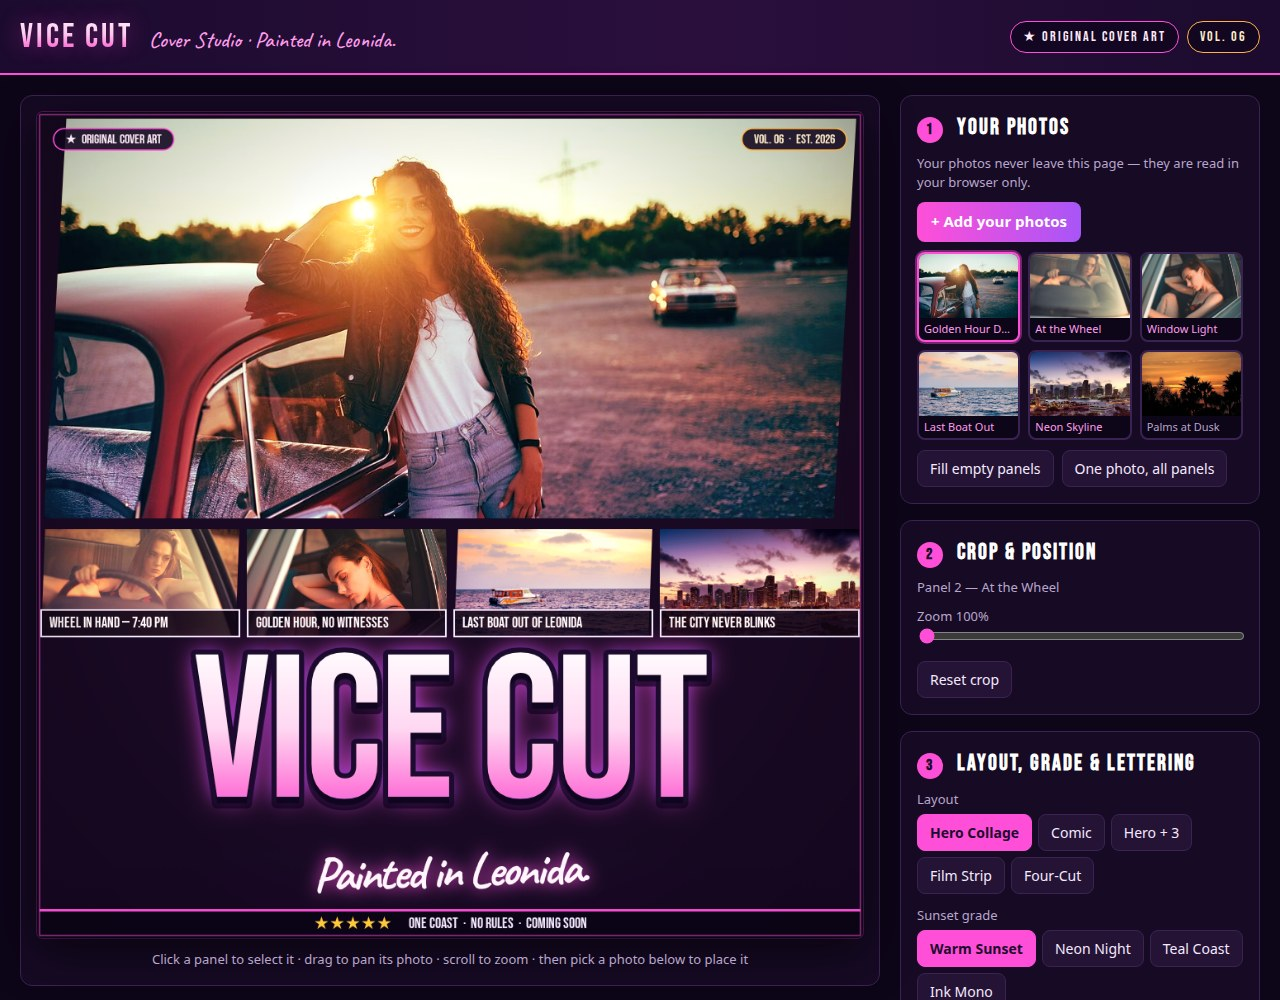
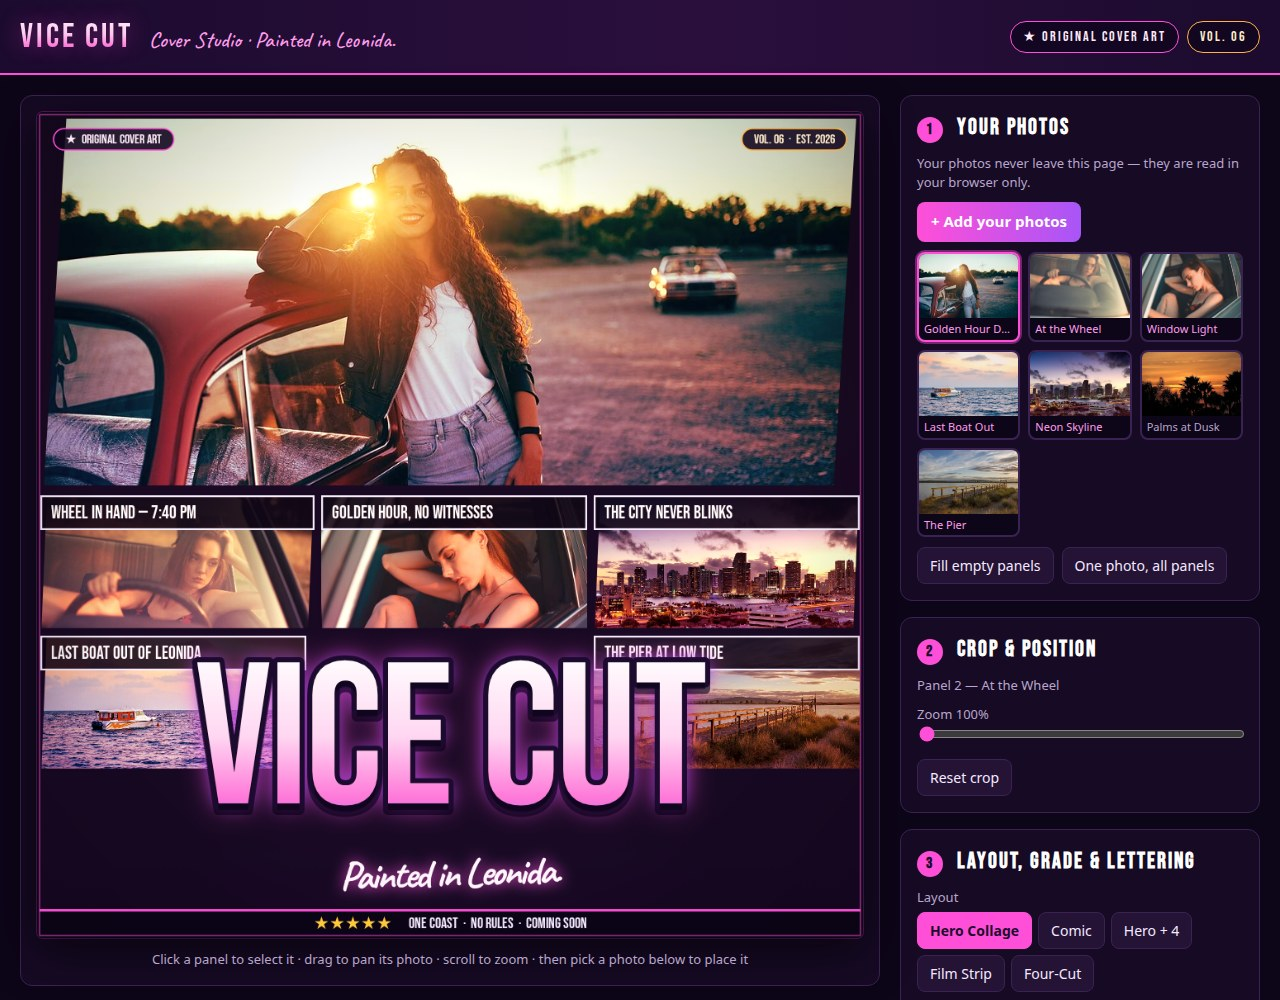
VICE CUT v3: dense poster grid — title overlaps the panels, 7th photo (pier), top captions

diff --git a/app/src/cover.js b/app/src/cover.js
@@ -49,57 +49,66 @@ export const CAPTION_STYLES = {
 
 // Layouts: panels in fractions of the cover (x, y, w, h, slant). Slot 0 is always
 // the hero — the big face-led photo. The rest are the small comic panels. Panels
-// end at 0.64 of the height: the giant title + tagline own the bottom strip, so
-// layouts never put a face or a caption under the title.
+// fill the cover down to 0.80 of the height, and the giant title OVERLAPS the
+// photo grid the way GTA posters do — never in its own empty band, and never
+// over a face (faces live in the hero and the top row; the bottom row is scenes).
+// Captions sit at the TOP of each small panel, so the title overlapping the
+// panel bottoms can never hide one.
 export const LAYOUTS = {
   hero: {
     label: 'Hero Collage',
     panels: [
-      { x: 0, y: 0, w: 1, h: 0.5, slant: 0.028 },
-      { x: 0, y: 0.5, w: 0.25, h: 0.14, slant: 0.02 },
-      { x: 0.25, y: 0.5, w: 0.25, h: 0.14, slant: -0.02 },
-      { x: 0.5, y: 0.5, w: 0.25, h: 0.14, slant: 0.02 },
-      { x: 0.75, y: 0.5, w: 0.25, h: 0.14, slant: -0.02 },
+      { x: 0, y: 0, w: 1, h: 0.46, slant: 0.028, photo: 'hero', caption: '' },
+      { x: 0, y: 0.46, w: 0.34, h: 0.17, slant: 0.02, photo: 'driver', caption: 'WHEEL IN HAND — 7:40 PM' },
+      { x: 0.34, y: 0.46, w: 0.33, h: 0.17, slant: -0.02, photo: 'window', caption: 'GOLDEN HOUR, NO WITNESSES' },
+      { x: 0.67, y: 0.46, w: 0.33, h: 0.17, slant: 0.02, photo: 'miami', caption: 'THE CITY NEVER BLINKS' },
+      // Bottom row: two side panels only. The centre is the title's ground —
+      // a panel there would sit dead-centre under the densest title glyphs
+      // and vanish, caption and all.
+      { x: 0, y: 0.63, w: 0.33, h: 0.17, slant: 0.02, photo: 'boat', caption: 'LAST BOAT OUT OF LEONIDA' },
+      { x: 0.67, y: 0.63, w: 0.33, h: 0.17, slant: -0.02, photo: 'pier', caption: 'THE PIER AT LOW TIDE' },
     ],
   },
   comic: {
     label: 'Comic',
     panels: [
-      { x: 0, y: 0, w: 0.6, h: 0.44, slant: 0.02 },
-      { x: 0.6, y: 0, w: 0.4, h: 0.44, slant: -0.02 },
-      { x: 0, y: 0.44, w: 0.34, h: 0.2, slant: 0.02 },
-      { x: 0.34, y: 0.44, w: 0.33, h: 0.2, slant: -0.02 },
-      { x: 0.67, y: 0.44, w: 0.33, h: 0.2, slant: 0.02 },
+      { x: 0, y: 0, w: 0.6, h: 0.52, slant: 0.02, photo: 'hero', caption: '' },
+      { x: 0.6, y: 0, w: 0.4, h: 0.26, slant: -0.02, photo: 'driver', caption: 'WHEEL IN HAND — 7:40 PM' },
+      { x: 0.6, y: 0.26, w: 0.4, h: 0.26, slant: -0.02, photo: 'window', caption: 'GOLDEN HOUR, NO WITNESSES' },
+      { x: 0, y: 0.52, w: 0.34, h: 0.28, slant: 0.02, photo: 'miami', caption: 'THE CITY NEVER BLINKS' },
+      { x: 0.34, y: 0.52, w: 0.33, h: 0.28, slant: -0.02, photo: 'boat', caption: 'LAST BOAT OUT OF LEONIDA' },
+      { x: 0.67, y: 0.52, w: 0.33, h: 0.28, slant: 0.02, photo: 'palms', caption: 'PALMS AT DUSK' },
     ],
   },
   hero3: {
-    label: 'Hero + 3',
+    label: 'Hero + 4',
     panels: [
-      { x: 0, y: 0, w: 1, h: 0.5, slant: 0.024 },
-      { x: 0, y: 0.5, w: 0.34, h: 0.14, slant: 0.02 },
-      { x: 0.34, y: 0.5, w: 0.33, h: 0.14, slant: -0.02 },
-      { x: 0.67, y: 0.5, w: 0.33, h: 0.14, slant: 0.02 },
+      { x: 0, y: 0, w: 1, h: 0.5, slant: 0.024, photo: 'hero', caption: '' },
+      { x: 0, y: 0.5, w: 0.5, h: 0.15, slant: 0.02, photo: 'driver', caption: 'WHEEL IN HAND — 7:40 PM' },
+      { x: 0.5, y: 0.5, w: 0.5, h: 0.15, slant: -0.02, photo: 'window', caption: 'GOLDEN HOUR, NO WITNESSES' },
+      { x: 0, y: 0.65, w: 0.5, h: 0.15, slant: 0.02, photo: 'miami', caption: 'THE CITY NEVER BLINKS' },
+      { x: 0.5, y: 0.65, w: 0.5, h: 0.15, slant: -0.02, photo: 'boat', caption: 'LAST BOAT OUT OF LEONIDA' },
     ],
   },
   strip: {
     label: 'Film Strip',
     panels: [
-      { x: 0, y: 0, w: 1, h: 0.44, slant: 0.024 },
-      { x: 0, y: 0.44, w: 0.2, h: 0.2, slant: 0 },
-      { x: 0.2, y: 0.44, w: 0.2, h: 0.2, slant: 0 },
-      { x: 0.4, y: 0.44, w: 0.2, h: 0.2, slant: 0 },
-      { x: 0.6, y: 0.44, w: 0.2, h: 0.2, slant: 0 },
-      { x: 0.8, y: 0.44, w: 0.2, h: 0.2, slant: 0 },
+      { x: 0, y: 0, w: 1, h: 0.5, slant: 0.024, photo: 'hero', caption: '' },
+      { x: 0, y: 0.5, w: 0.2, h: 0.3, slant: 0, photo: 'driver', caption: 'WHEEL IN HAND — 7:40 PM' },
+      { x: 0.2, y: 0.5, w: 0.2, h: 0.3, slant: 0, photo: 'window', caption: 'GOLDEN HOUR, NO WITNESSES' },
+      { x: 0.4, y: 0.5, w: 0.2, h: 0.3, slant: 0, photo: 'miami', caption: 'THE CITY NEVER BLINKS' },
+      { x: 0.6, y: 0.5, w: 0.2, h: 0.3, slant: 0, photo: 'boat', caption: 'LAST BOAT OUT OF LEONIDA' },
+      { x: 0.8, y: 0.5, w: 0.2, h: 0.3, slant: 0, photo: 'palms', caption: 'PALMS AT DUSK' },
     ],
   },
   fourcut: {
     label: 'Four-Cut',
     panels: [
-      { x: 0, y: 0, w: 0.66, h: 0.46, slant: 0.02 },
-      { x: 0.66, y: 0, w: 0.34, h: 0.46, slant: -0.02 },
-      { x: 0, y: 0.46, w: 0.34, h: 0.18, slant: 0.02 },
-      { x: 0.34, y: 0.46, w: 0.33, h: 0.18, slant: -0.02 },
-      { x: 0.67, y: 0.46, w: 0.33, h: 0.18, slant: 0.02 },
+      { x: 0, y: 0, w: 0.66, h: 0.52, slant: 0.02, photo: 'hero', caption: '' },
+      { x: 0.66, y: 0, w: 0.34, h: 0.52, slant: -0.02, photo: 'driver', caption: 'WHEEL IN HAND — 7:40 PM' },
+      { x: 0, y: 0.52, w: 0.34, h: 0.28, slant: 0.02, photo: 'window', caption: 'GOLDEN HOUR, NO WITNESSES' },
+      { x: 0.34, y: 0.52, w: 0.33, h: 0.28, slant: -0.02, photo: 'miami', caption: 'THE CITY NEVER BLINKS' },
+      { x: 0.67, y: 0.52, w: 0.33, h: 0.28, slant: 0.02, photo: 'boat', caption: 'LAST BOAT OUT OF LEONIDA' },
     ],
   },
 };
@@ -108,9 +117,10 @@ export const DEFAULT_CAPTIONS = [
   '',
   'WHEEL IN HAND — 7:40 PM',
   'GOLDEN HOUR, NO WITNESSES',
-  'LAST BOAT OUT OF LEONIDA',
   'THE CITY NEVER BLINKS',
+  'LAST BOAT OUT OF LEONIDA',
   'PALMS AT DUSK',
+  'THE PIER AT LOW TIDE',
 ];
 
 // Last painted panel rects in canvas pixels, for click hit-testing in the editor.
@@ -199,8 +209,10 @@ function drawPhotoPanel(ctx, img, r, grade, crop) {
 
 function drawCaptionBar(ctx, r, text, style, isHero) {
   if (!text) return;
+  // Caption box at the TOP of the panel: the giant title overlaps panel
+  // bottoms, so a bottom caption would hide under it.
   const barH = Math.max(20, r.h * 0.26);
-  const barY = r.y + r.h - barH;
+  const barY = r.y;
   const pad = barH * 0.32;
   ctx.save();
   ctx.beginPath();
@@ -229,32 +241,35 @@ function drawCaptionBar(ctx, r, text, style, isHero) {
 }
 
 function drawTitle(ctx, W, H, title, tagline) {
-  // The title owns the strip below the panels (panels end at 0.64H, the footer
-  // strip starts at 0.965H). Giant: fit to 94% of the width, never taller than
-  // 27% of the cover — and the fit loop also guarantees the tagline clears the
-  // footer, so the tagline can never be buried under it.
+  // The title OVERLAPS the photo grid like a GTA poster: panels fill the cover
+  // to 0.80H, and the title straddles that edge — its top over the bottom row
+  // of (faceless scene) panels, its bottom over the dark band below. Giant:
+  // fit to 94% of the width, never taller than 26% of the cover — and the fit
+  // loop also guarantees the tagline clears the footer, so it can never be
+  // buried under it.
   const footerTop = H * 0.965;
-  const titleTop = H * 0.64 + H * 0.004;
-  let size = H * 0.27;
+  let size = H * 0.26;
   const setFont = (s) => {
     ctx.font = `${s}px "Bebas Neue", sans-serif`;
     try { ctx.letterSpacing = `${-s * 0.012}px`; } catch { /* older canvas */ }
   };
   setFont(size);
+  const titleTop = () => H * 0.8 - size * 0.6;
   const fits = () => {
-    const tagSize = size * 0.22;
+    const tagSize = size * 0.2;
     return ctx.measureText(title).width <= W * 0.94
-      && titleTop + size + tagSize * 1.3 <= footerTop - 2;
+      && titleTop() + size + tagSize * 1.3 <= footerTop - 2;
   };
   while (size > 40 && !fits()) {
     size -= 4;
     setFont(size);
   }
   const titleH = size;
+  const top = titleTop();
   const cx = W / 2;
   ctx.textAlign = 'center';
   ctx.textBaseline = 'top';
-  const grad = ctx.createLinearGradient(0, titleTop, 0, titleTop + titleH);
+  const grad = ctx.createLinearGradient(0, top, 0, top + titleH);
   grad.addColorStop(0, '#ffffff');
   grad.addColorStop(0.42, '#ffd7f2');
   grad.addColorStop(0.72, '#ff7ad9');
@@ -264,10 +279,10 @@ function drawTitle(ctx, W, H, title, tagline) {
   ctx.shadowColor = '#ff4fd8';
   ctx.shadowBlur = size * 0.14;
   ctx.fillStyle = grad;
-  ctx.fillText(title, cx, titleTop);
+  ctx.fillText(title, cx, top);
   ctx.shadowColor = '#7c3aed';
   ctx.shadowBlur = size * 0.07;
-  ctx.fillText(title, cx, titleTop);
+  ctx.fillText(title, cx, top);
   ctx.restore();
   // Crisp pass: thick dark outline, gradient fill, hard drop shadow.
   ctx.save();
@@ -277,14 +292,14 @@ function drawTitle(ctx, W, H, title, tagline) {
   ctx.lineJoin = 'round';
   ctx.lineWidth = Math.max(4, size * 0.05);
   ctx.strokeStyle = '#1c0b2e';
-  ctx.strokeText(title, cx, titleTop);
+  ctx.strokeText(title, cx, top);
   ctx.fillStyle = grad;
-  ctx.fillText(title, cx, titleTop);
+  ctx.fillText(title, cx, top);
   ctx.restore();
   // Tagline in script, tucked tight under the title, never overlapping it.
-  const tagSize = Math.max(20, size * 0.24);
+  const tagSize = Math.max(20, size * 0.2);
   ctx.save();
-  ctx.translate(cx, titleTop + titleH + tagSize * 0.55);
+  ctx.translate(cx, top + titleH + tagSize * 0.55);
   ctx.rotate(-0.03);
   ctx.font = `700 ${tagSize}px Caveat, cursive`;
   ctx.textAlign = 'center';
@@ -431,11 +446,12 @@ export function renderCover(canvas, state, photos) {
 }
 
 function drawSprockets(ctx, r) {
+  // Film-strip holes along the bottom edge only: captions now live at the
+  // top of each panel, so top holes would sit under the caption bar.
   const n = Math.max(3, Math.floor(r.w / 46));
   ctx.fillStyle = 'rgba(22, 10, 36, 0.9)';
   for (let i = 0; i < n; i++) {
     const x = r.x + ((i + 0.5) / n) * r.w;
-    ctx.fillRect(x - 4, r.y + 2, 8, 5);
     ctx.fillRect(x - 4, r.y + r.h - 7, 8, 5);
   }
 }

diff --git a/app/src/main.js b/app/src/main.js
@@ -8,7 +8,6 @@ import {
   GRADES,
   CAPTION_STYLES,
   LAYOUTS,
-  DEFAULT_CAPTIONS,
   renderCover,
   exportPNG,
   hitPanel,
@@ -21,11 +20,12 @@ import {
 
 const SAMPLES = [
   { id: 'hero', name: 'Golden Hour Driver', src: 'samples/hero.jpg', focusY: 0.38 },
-  { id: 'driver', name: 'At the Wheel', src: 'samples/driver.jpg', focusY: 0.42 },
+  { id: 'driver', name: 'At the Wheel', src: 'samples/driver.jpg', focusY: 0.3 },
   { id: 'window', name: 'Window Light', src: 'samples/window.jpg', focusY: 0.45 },
   { id: 'boat', name: 'Last Boat Out', src: 'samples/boat.jpg', focusY: 0.55 },
   { id: 'miami', name: 'Neon Skyline', src: 'samples/miami.jpg', focusY: 0.5 },
   { id: 'palms', name: 'Palms at Dusk', src: 'samples/palms.jpg', focusY: 0.55 },
+  { id: 'pier', name: 'The Pier', src: 'samples/pier.jpg', focusY: 0.5 },
 ];
 
 const state = {
@@ -49,22 +49,20 @@ const $ = (id) => document.getElementById(id);
 const canvas = $('coverCanvas');
 
 function defaultPanels() {
-  const count = LAYOUTS[state.layout].panels.length;
-  const order = ['hero', 'driver', 'window', 'boat', 'miami', 'palms'];
-  const panels = [];
-  for (let i = 0; i < count; i++) {
-    const photoId = order[i % order.length];
-    const sample = SAMPLES.find((s) => s.id === photoId);
-    panels.push({
-      photo: photoId,
-      caption: DEFAULT_CAPTIONS[i % DEFAULT_CAPTIONS.length],
+  // Each layout names its own default photo + caption per slot, so a slot's
+  // caption always matches its photo (the bottom row of Hero Collage is
+  // scenes only — the title sits over its centre).
+  return LAYOUTS[state.layout].panels.map((p) => {
+    const sample = SAMPLES.find((s) => s.id === p.photo);
+    return {
+      photo: p.photo ?? null,
+      caption: p.caption ?? '',
       zoom: 1,
       panX: 0,
       panY: 0,
       focusY: sample?.focusY ?? 0.5,
-    });
-  }
-  return panels;
+    };
+  });
 }
 
 function loadImage(src) {

diff --git a/app/index.html b/app/index.html
@@ -55,7 +55,7 @@
         <span class="btnrow">
           <button type="button" data-layout="hero">Hero Collage</button>
           <button type="button" data-layout="comic">Comic</button>
-          <button type="button" data-layout="hero3">Hero + 3</button>
+          <button type="button" data-layout="hero3">Hero + 4</button>
           <button type="button" data-layout="strip">Film Strip</button>
           <button type="button" data-layout="fourcut">Four-Cut</button>
         </span>

diff --git a/README.md b/README.md
@@ -11,12 +11,12 @@ bottom — then one click to a PNG in the exact size your post needs.
 ## How it works
 
 1. **Your photos** — add your own (they never leave your browser) or start from
-   the six golden-hour samples. Click a photo, then click a panel to place it.
+   the seven golden-hour samples. Click a photo, then click a panel to place it.
 2. **Crop & position** — click a panel, drag to pan its photo, scroll to zoom,
    or use the zoom slider. "Fill empty panels" spreads one photo across the
    cover; "One photo, all panels" makes a single-photo cover.
 3. **Layout, grade & lettering** — five comic layouts (Hero Collage, Comic,
-   Hero + 3, Film Strip, Four-Cut), four sunset grades (Warm Sunset, Neon
+   Hero + 4, Film Strip, Four-Cut), four sunset grades (Warm Sunset, Neon
    Night, Teal Coast, Ink Mono), four caption styles, editable title, tagline
    and every panel caption.
 4. **Export PNG** — 1080 × 1080, 1080 × 1350, or 1920 × 1080, exact dimensions,
@@ -53,8 +53,9 @@ node <kit>/cli/makefun.mjs check
 | `samples/boat.jpg` | Speedboat at sunset, Maldives | [Wikimedia Commons](https://commons.wikimedia.org/wiki/File:Speedboat_-_Rannalhi,_Maldives_-_2016.jpg) | CC0 |
 | `samples/miami.jpg` | Miami skyline at dusk | [Wikimedia Commons](https://commons.wikimedia.org/wiki/File:Miami_Sunset_(45863661094).jpg) | CC0 |
 | `samples/palms.jpg` | Palm silhouettes against an orange sunset | [Wikimedia Commons](https://commons.wikimedia.org/wiki/File:Sunset_behind_palm_trees.jpg) | CC BY-SA 4.0 |
+| `samples/pier.jpg` | Wooden pier at sunset, Sidney Spit | [Wikimedia Commons](https://commons.wikimedia.org/wiki/File:A_pier_at_a_campsite_during_sunset,_Sidney_Spit_(part_of_Gulf_Islands_National_Park_Reserve),_Sidney_Island,_British_Columbia,_Canada_20.jpg) | CC BY-SA 4.0 |
 
-All six were downloaded in-session from Wikimedia Commons thumbnails (free
+All seven were downloaded in-session from Wikimedia Commons thumbnails (free
 licenses above); none is a top-leaderboard entry's photo. Fonts: Bebas Neue
 and Caveat, SIL Open Font License, vendored under `app/fonts/`.
 
